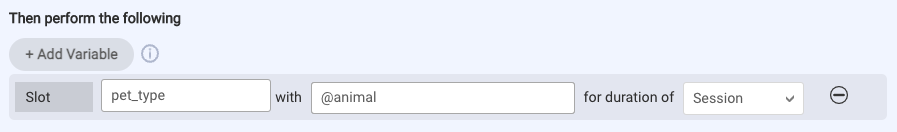
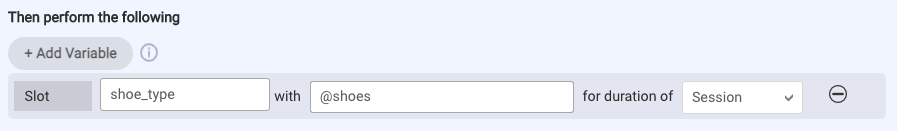
copy edits

diff --git a/pages/Documents/ConversationalAI/ConversationBuilder/Variables&Slots/slots.md b/pages/Documents/ConversationalAI/ConversationBuilder/Variables&Slots/slots.md
@@ -32,11 +32,11 @@ This section describes how to create a slot manually. However, if you use the As
     <img class="fancyimage" width="800" src="img/ConvoBuilder/slotAdd2.png">
 6. Decide how long you'd like the slot's data to be kept for, i.e., the [duration](conversation-builder-variables-slots-the-basics.html#duration).
 
-`{$botContext.slot.slotName}` is how you can access values in slots and use them in other ways. For example, if you've stored an "animal" entity in a `pet_type` slot, you can have the bot respond with the consumer's stored answer with a text interaction like so:
+`{$botContext.slot.slotName}` is how you can access values in slots and use them in other ways. For example, if you've stored a "shoes" entity in a `shoe_type` slot, you can have the bot respond with the consumer's stored answer with a text interaction like so:
 
-"You answered: `{$botContext.slot.pet_type}`!"
+"You answered: `{$botContext.slot.shoe_type}`!"
 
-If the bot asked the consumer, "Which animal do you like?" and the consumer answered "dogs,” the slot for the entity “animal” would be populated with their answer. The bot could then respond with "You answered: dogs!" populating the code above with the consumer’s answer.
+If the bot asked the consumer, "What type of shoes are you looking for?" and the consumer answered "boots,” the slot for the entity “shoes” would be populated with their answer. The bot could then respond with "You answered: boots!" populating the code above with the consumer’s answer.
 
 ### Example 1: Fill a slot with a value for a single entity
 
